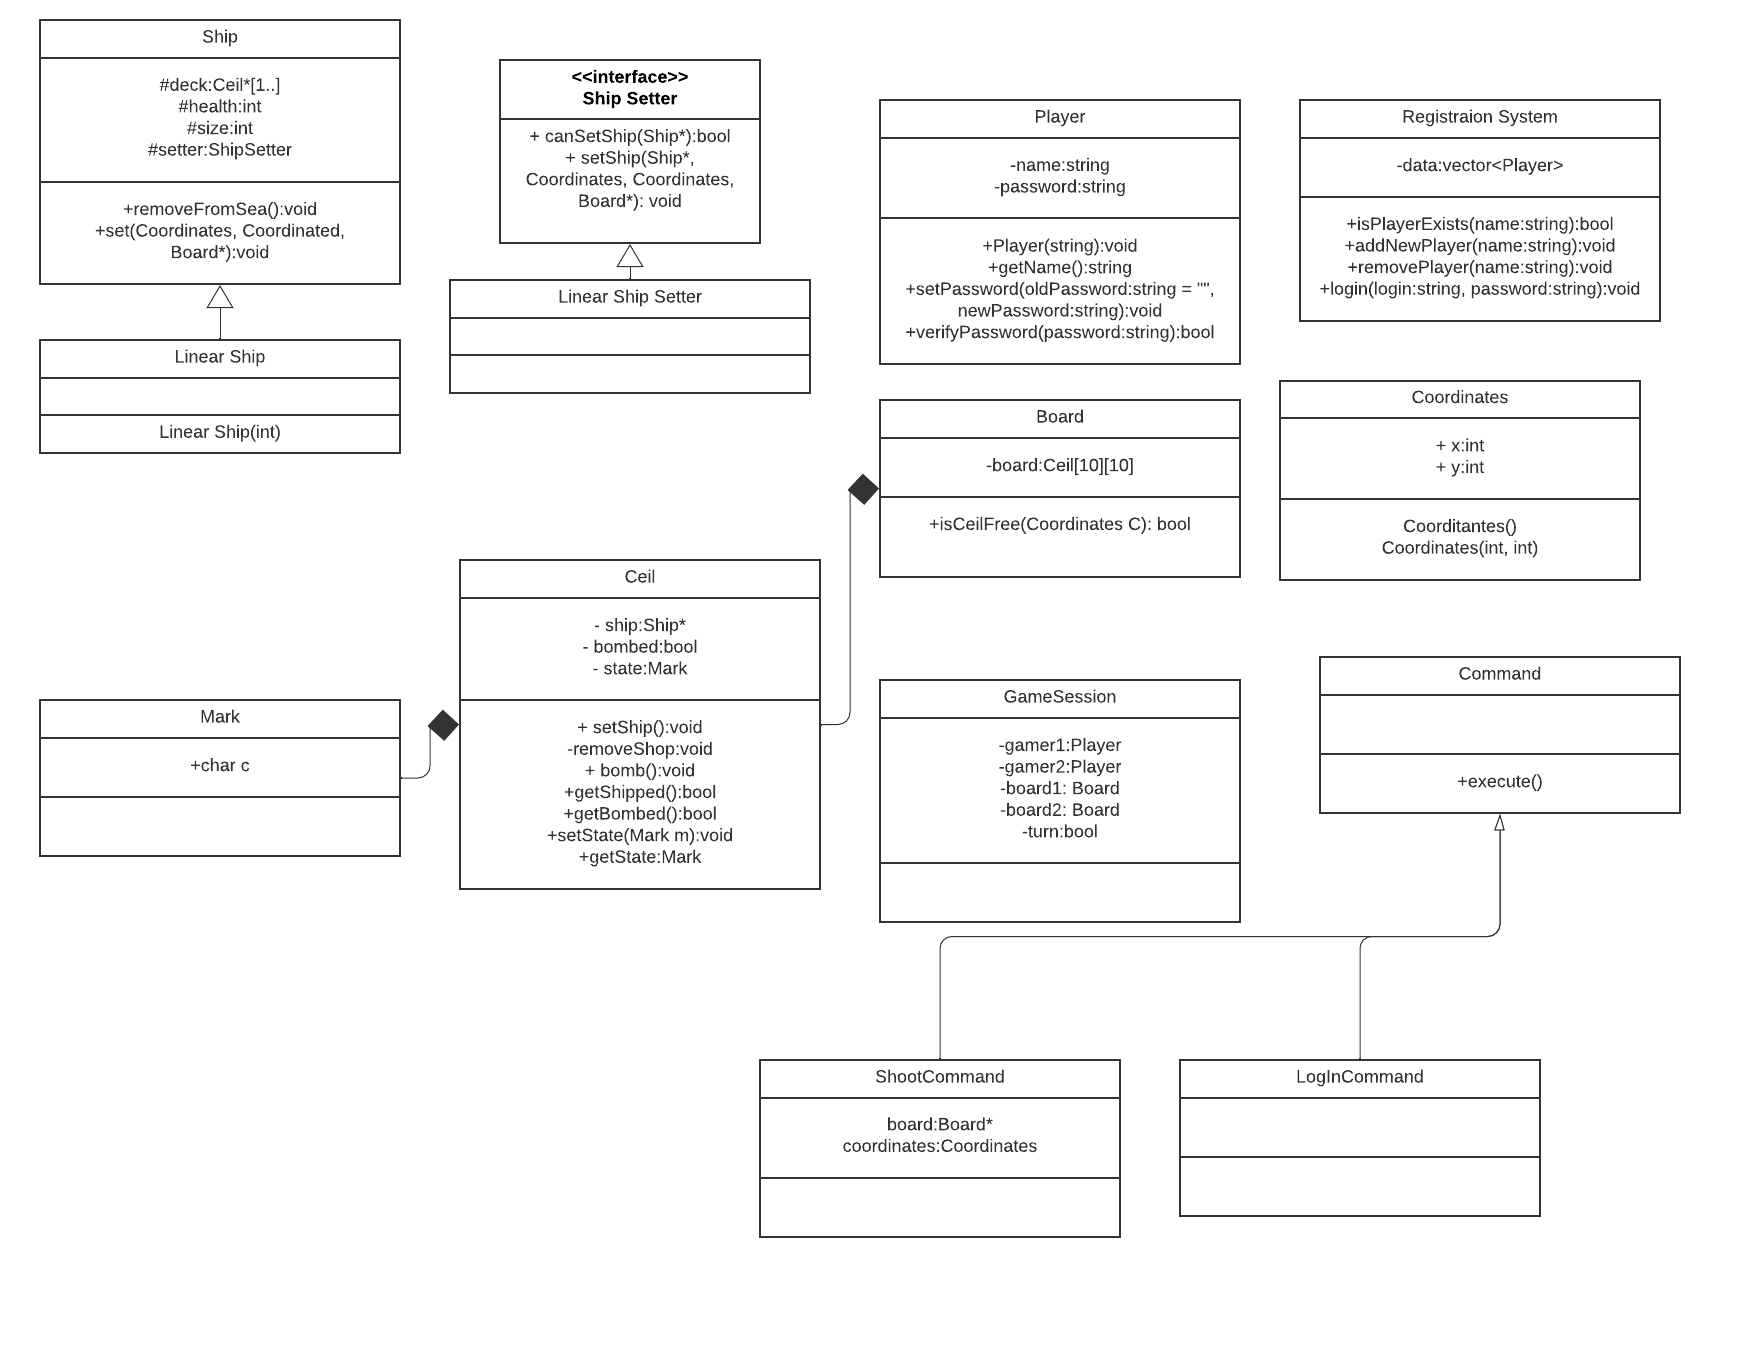
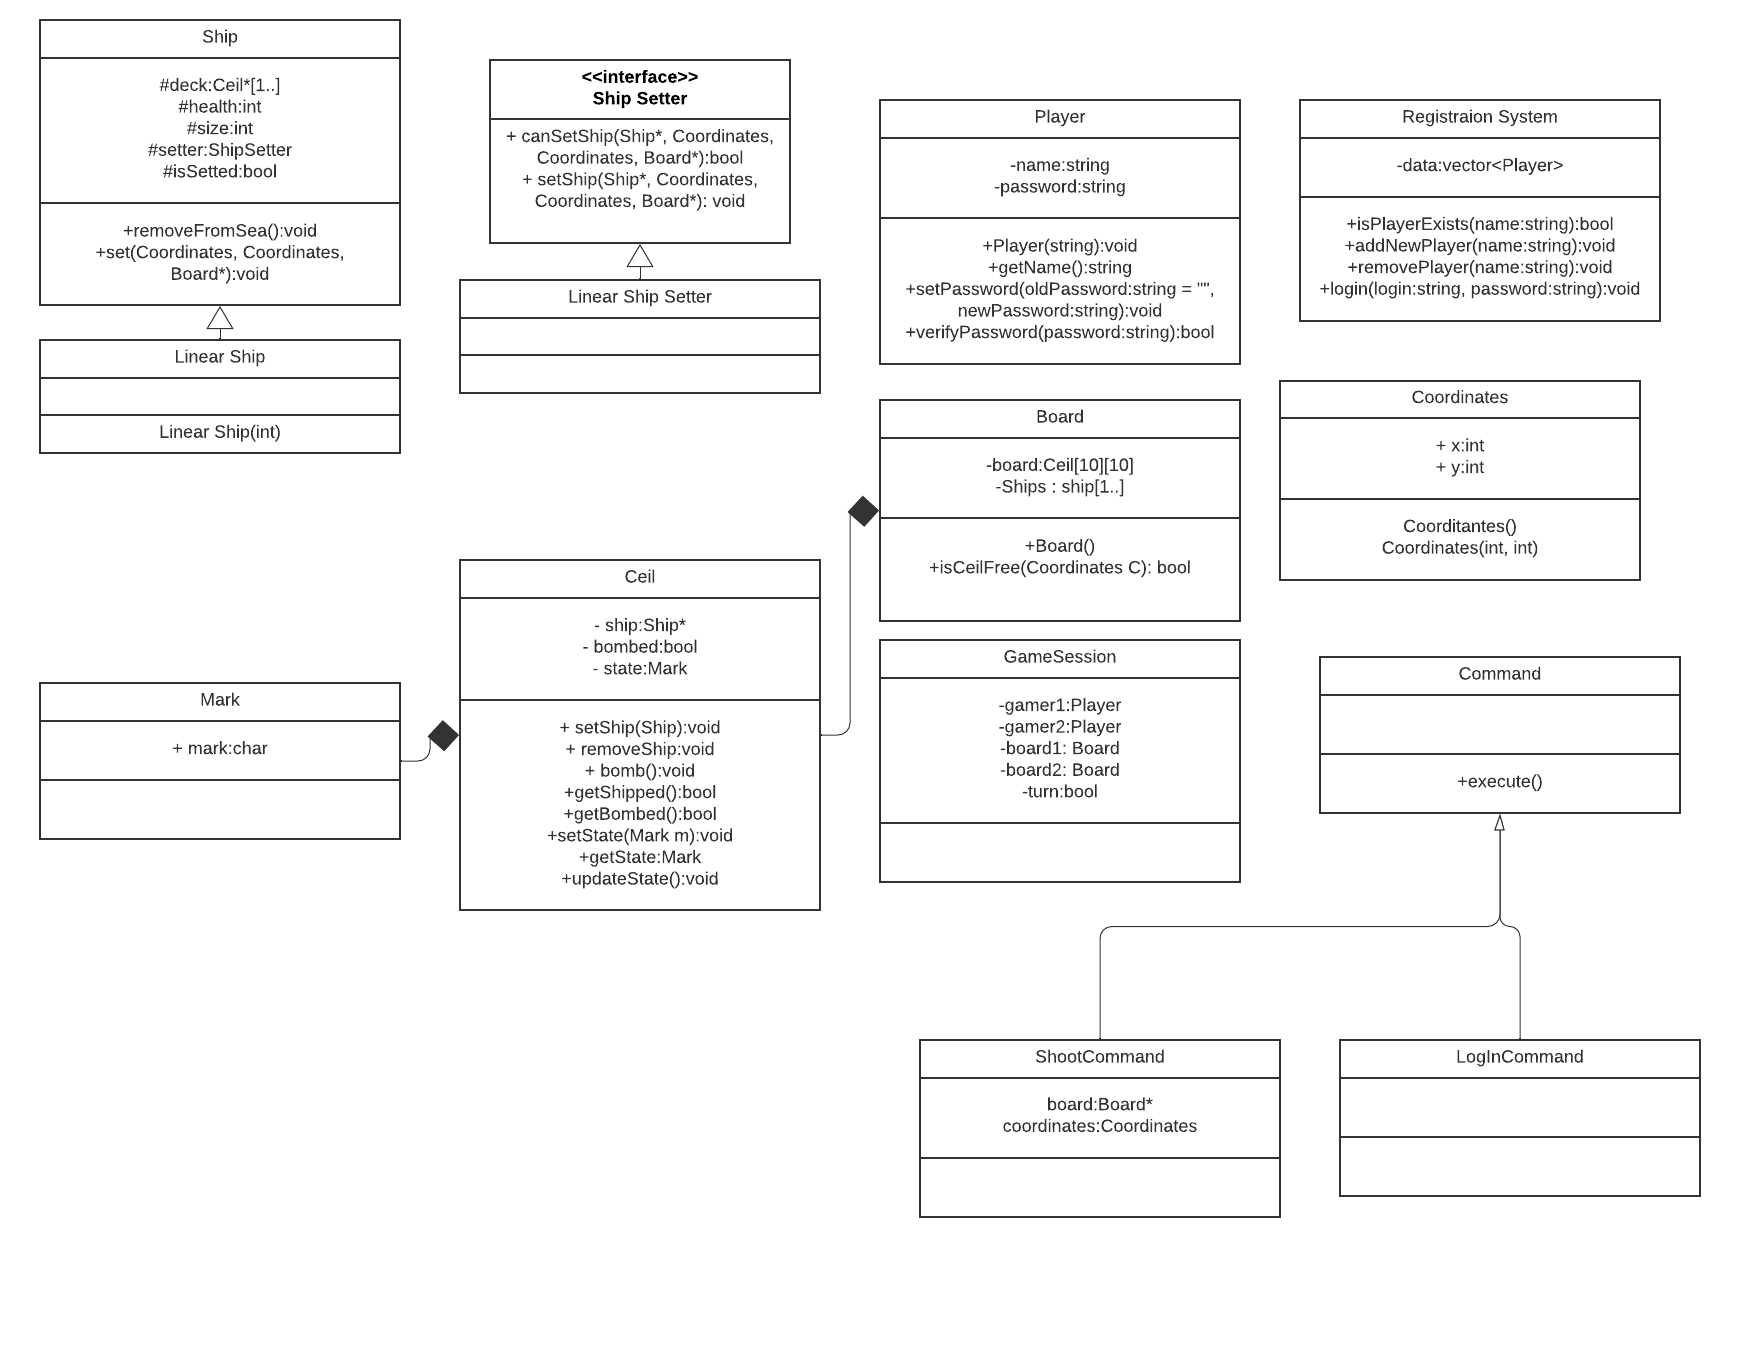
added some code

diff --git a/ship.h b/ship.h
@@ -1,0 +1,19 @@
+#pragma once
+#include "ceil.h"
+#include "coordinates.h"
+#include "vector"
+#include <cstddef>
+class Board;
+class Ship;
+class Ship{
+protected:
+    size_t health;
+    size_t size;
+    bool isSetted;
+    std::vector<Ceil*> deck;
+};
+
+class ShipSetter{
+    virtual void setShip(Ship* ship, Coordinates begin, Coordinates end, Board* board);   
+    virtual bool canSetShip(Ship* ship);
+};

diff --git a/ceil.cpp b/ceil.cpp
@@ -1,0 +1,9 @@
+#include<ceil.h>
+void Ceil::setShip(Ship& other) {ship = &other;}
+void Ceil::removeShip() {ship = nullptr;}
+void Ceil::bomb() {bombed = true;}
+bool Ceil::getShipped() {return ship != nullptr;}
+bool Ceil::getBombed() {return bombed;}
+void Ceil::setState(Mark m) {state = m;}
+Mark Ceil::getState() {return state;}
+void Ceil::updateState() {}

diff --git a/ceil.h b/ceil.h
@@ -1,0 +1,18 @@
+#pragma once
+#include "mark.h"
+class Ship;
+class Ceil{
+private:
+    Ship* ship = nullptr;
+    bool bombed = false;
+    Mark state;
+public:
+    void setShip(Ship& other);
+    void removeShip();
+    void bomb();
+    bool getShipped();
+    bool getBombed();
+    void setState(Mark m);
+    Mark getState();
+    void updateState();
+};

diff --git a/player.cpp b/player.cpp
@@ -2,3 +2,11 @@
 
 Player::Player(std::string name) : name (name) {};
 std::string Player::getName() {return name;}
+void Player::setPassword(std::string oldPassword, std::string newPassword) {
+   if (oldPassword == password){
+       password = newPassword;
+   }
+}
+bool Player::verifyPassword(std::string string) {
+    return password == string;
+}

diff --git a/main.cpp b/main.cpp
@@ -1,9 +1,12 @@
 #include<iostream>
-#include<player.h>
-
+#include "player.h"
+#include "board.h"
+#include "coordinates.h"
 int main() {
     std::string s = "Name";
     Player gamma(s);
-    std::cout << gamma.getName(); 
+    Board b;
+    Coordinates c(0, 0);
+    std::cout << gamma.getName() << b.isCeilFree(c) << '\n'; 
     return 0;
 }

diff --git a/board.h b/board.h
@@ -1,0 +1,17 @@
+#pragma once
+#include "ceil.h"
+#include "coordinates.h"
+#include "ship.h"
+#include "vector"
+class Board{
+private:
+    static const int N = 10;
+    static const int M = 10;
+    Ceil board[N][M];
+    std::vector<Ship*> ships;
+
+public:
+    Board();
+    bool isCeilFree(Coordinates c);
+
+};

diff --git a/coordinates.h b/coordinates.h
@@ -1,0 +1,9 @@
+#pragma once
+#include <cstddef>
+class Coordinates{
+public:
+    size_t x;
+    size_t y;
+    Coordinates();
+    Coordinates(size_t x, size_t y);
+};

diff --git a/coordinates.cpp b/coordinates.cpp
@@ -1,0 +1,4 @@
+#include<coordinates.h>
+Coordinates::Coordinates() = default;
+Coordinates::Coordinates(size_t x, size_t y) : x(x), y(y) {};
+

diff --git a/board.cpp b/board.cpp
@@ -1,0 +1,4 @@
+#include "board.h"
+
+bool Board::isCeilFree(Coordinates c) {return !board[c.x][c.y].getShipped();}
+Board::Board(){}

diff --git a/player.h b/player.h
@@ -1,4 +1,5 @@
-#include<iostream>
+#include<string>
+#pragma once
 class Player{
 private:
     std::string name;

diff --git a/mark.h b/mark.h
@@ -1,0 +1,4 @@
+class Mark{
+public:
+    char mark;
+};

diff --git a/ship.cpp b/ship.cpp
@@ -1,0 +1,1 @@
+#include<ship.h>
